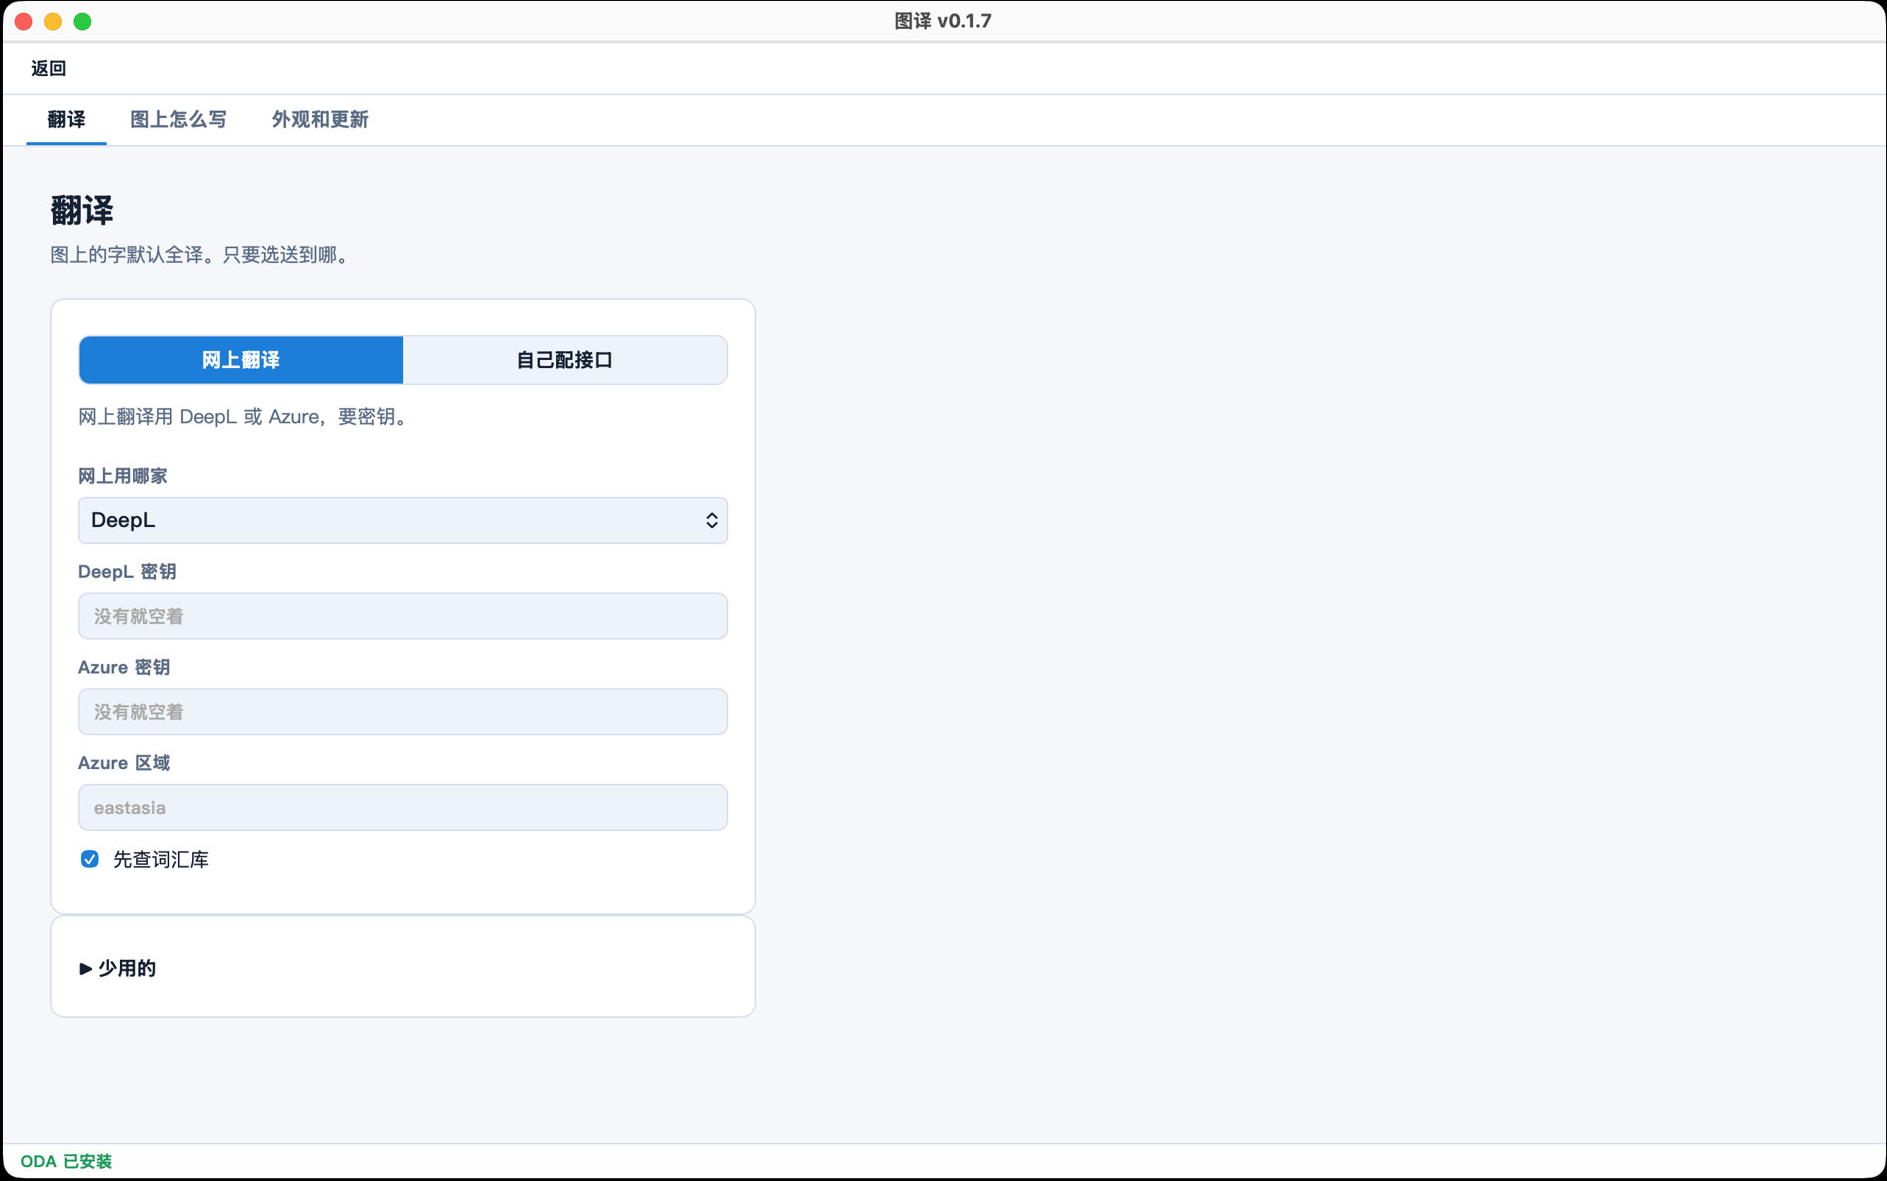
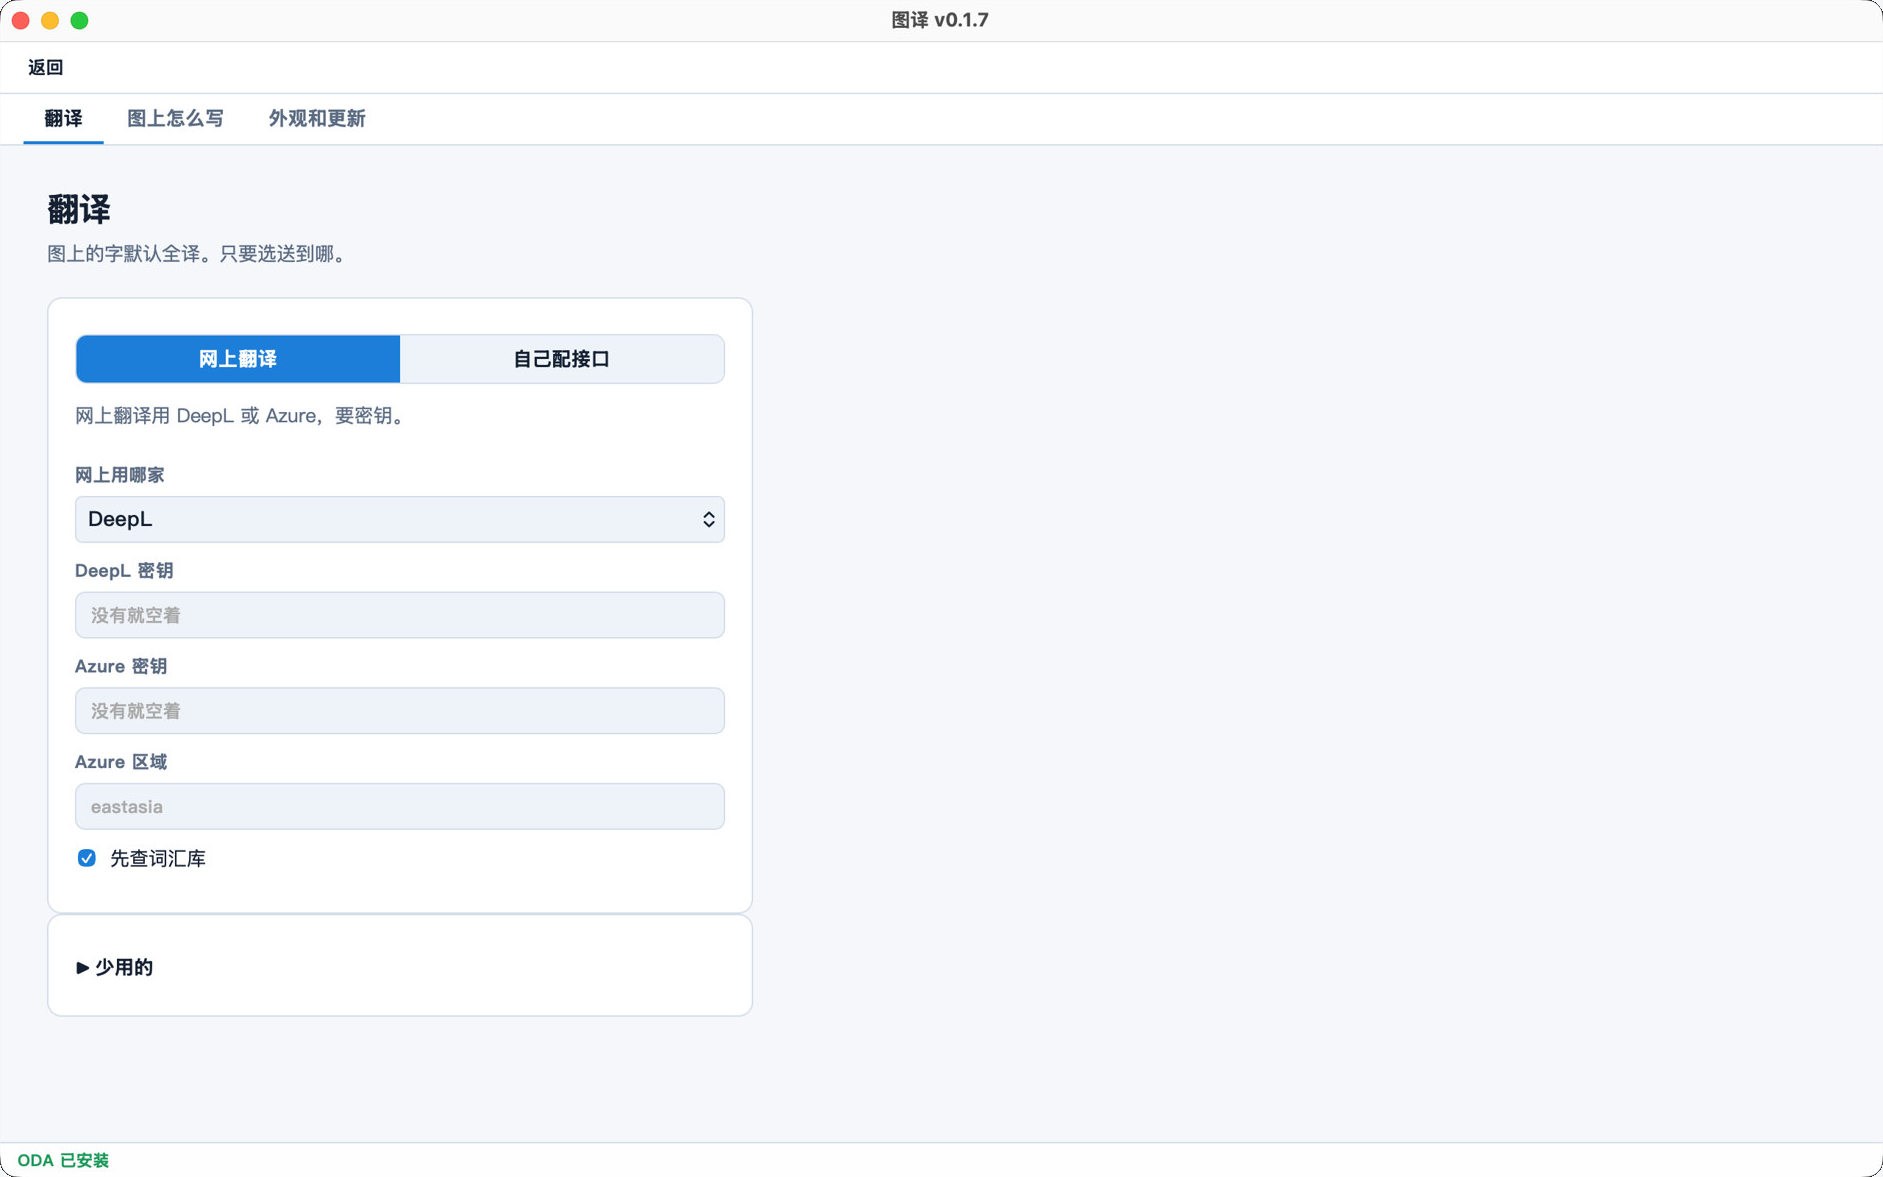
Swap README shots for the new windows and split the title.
Slogan sits under 图译 Tuyi in a larger line. Black desktop
padding is cropped off the four screenshots.

diff --git a/tests/test_platform_compatibility.py b/tests/test_platform_compatibility.py
@@ -133,18 +133,19 @@ class PlatformCompatibilityTests(unittest.TestCase):
         self.assertIn("<table>", readme)
         self.assertIn("<h3>主界面</h3>", readme)
         self.assertIn("<h3>词汇库</h3>", readme)
-        self.assertIn("图译 Tuyi - 强大且开源的 DWG/DXF 翻译工具", readme)
-        self.assertNotIn("强大且开源的 DWG 翻译工具</p>", readme)
-        self.assertIn("docs/screenshots/ui-glossary.png", readme)
-        self.assertIn("docs/screenshots/ui-write.png", readme)
-        self.assertIn("docs/screenshots/ui-settings.png", readme)
-        self.assertIn("docs/screenshots/ui-dark.png", readme)
+        self.assertIn("<h1 align=\"center\">图译 Tuyi</h1>", readme)
+        self.assertIn("<h3 align=\"center\">强大且开源的 DWG/DXF 翻译工具</h3>", readme)
+        self.assertIn("docs/screenshots/app-glossary.png", readme)
+        self.assertIn("docs/screenshots/app-write.png", readme)
+        self.assertIn("docs/screenshots/app-settings.png", readme)
+        self.assertIn("docs/screenshots/app-home.png", readme)
+        self.assertNotIn("docs/screenshots/ui-", readme)
         from PIL import Image
 
-        for name in ("ui-home.png", "ui-settings.png", "ui-write.png", "ui-dark.png", "ui-glossary.png"):
+        for name in ("app-home.png", "app-settings.png", "app-write.png", "app-glossary.png"):
             shot = Path(__file__).resolve().parents[1] / "docs" / "screenshots" / name
             px = Image.open(shot).convert("RGB").getpixel((0, 0))
-            self.assertGreater(sum(px), 80, name)
+            self.assertGreater(sum(px), 400, name)
 
     def test_release_workflows_use_app_version_and_tag_only(self):
         root = Path(__file__).resolve().parents[1]

diff --git a/README.en.md b/README.en.md
@@ -4,7 +4,8 @@
   <img src="docs/icons/app-rounded.png" width="128" alt="Tuyi">
 </p>
 
-<h1 align="center">图译 Tuyi - A powerful, open-source DWG/DXF translator</h1>
+<h1 align="center">图译 Tuyi</h1>
+<h3 align="center">A powerful, open-source DWG/DXF translator</h3>
 
 <p align="center">
   <a href="https://github.com/erict16/tuyi/releases"><img alt="GitHub release" src="https://img.shields.io/github/v/release/erict16/tuyi?style=flat-square"></a>
@@ -21,27 +22,21 @@ Open a DWG or DXF. Translate the text. Get a new file. The original stays put. N
   <tr>
     <td align="center" valign="top" width="50%">
       <h3>Home</h3>
-      <img src="docs/screenshots/ui-home.png" alt="Add a drawing on the left, translate at the bottom">
+      <img src="docs/screenshots/app-home.png" alt="Add a drawing on the left, translate at the bottom">
     </td>
     <td align="center" valign="top" width="50%">
       <h3>Glossary</h3>
-      <img src="docs/screenshots/ui-glossary.png" alt="Your terms hit first">
+      <img src="docs/screenshots/app-glossary.png" alt="Your terms hit first">
     </td>
   </tr>
   <tr>
     <td align="center" valign="top" width="50%">
       <h3>Settings</h3>
-      <img src="docs/screenshots/ui-settings.png" alt="Cloud translate or your own endpoint">
+      <img src="docs/screenshots/app-settings.png" alt="Cloud translate or your own endpoint">
     </td>
     <td align="center" valign="top" width="50%">
       <h3>On the drawing</h3>
-      <img src="docs/screenshots/ui-write.png" alt="Keep translation only, or keep both">
-    </td>
-  </tr>
-  <tr>
-    <td align="center" colspan="2">
-      <h3>Dark</h3>
-      <img src="docs/screenshots/ui-dark.png" width="860" alt="Dark mode, including the system titlebar">
+      <img src="docs/screenshots/app-write.png" alt="Keep translation only, or keep both">
     </td>
   </tr>
 </table>

diff --git a/README.md b/README.md
@@ -4,7 +4,8 @@
   <img src="docs/icons/app-rounded.png" width="128" alt="图译">
 </p>
 
-<h1 align="center">图译 Tuyi - 强大且开源的 DWG/DXF 翻译工具</h1>
+<h1 align="center">图译 Tuyi</h1>
+<h3 align="center">强大且开源的 DWG/DXF 翻译工具</h3>
 
 <p align="center">
   <a href="https://github.com/erict16/tuyi/releases"><img alt="GitHub release" src="https://img.shields.io/github/v/release/erict16/tuyi?style=flat-square"></a>
@@ -21,27 +22,21 @@
   <tr>
     <td align="center" valign="top" width="50%">
       <h3>主界面</h3>
-      <img src="docs/screenshots/ui-home.png" alt="左边加图纸，底下点翻译">
+      <img src="docs/screenshots/app-home.png" alt="左边加图纸，底下点翻译">
     </td>
     <td align="center" valign="top" width="50%">
       <h3>词汇库</h3>
-      <img src="docs/screenshots/ui-glossary.png" alt="自己的词先命中">
+      <img src="docs/screenshots/app-glossary.png" alt="自己的词先命中">
     </td>
   </tr>
   <tr>
     <td align="center" valign="top" width="50%">
       <h3>设置</h3>
-      <img src="docs/screenshots/ui-settings.png" alt="网上翻译或自己配接口">
+      <img src="docs/screenshots/app-settings.png" alt="网上翻译或自己配接口">
     </td>
     <td align="center" valign="top" width="50%">
       <h3>图上怎么写</h3>
-      <img src="docs/screenshots/ui-write.png" alt="图纸上只留译文，或原文译文都留">
-    </td>
-  </tr>
-  <tr>
-    <td align="center" colspan="2">
-      <h3>深色</h3>
-      <img src="docs/screenshots/ui-dark.png" width="860" alt="深色模式，系统标题栏一起变暗">
+      <img src="docs/screenshots/app-write.png" alt="图纸上只留译文，或原文译文都留">
     </td>
   </tr>
 </table>
